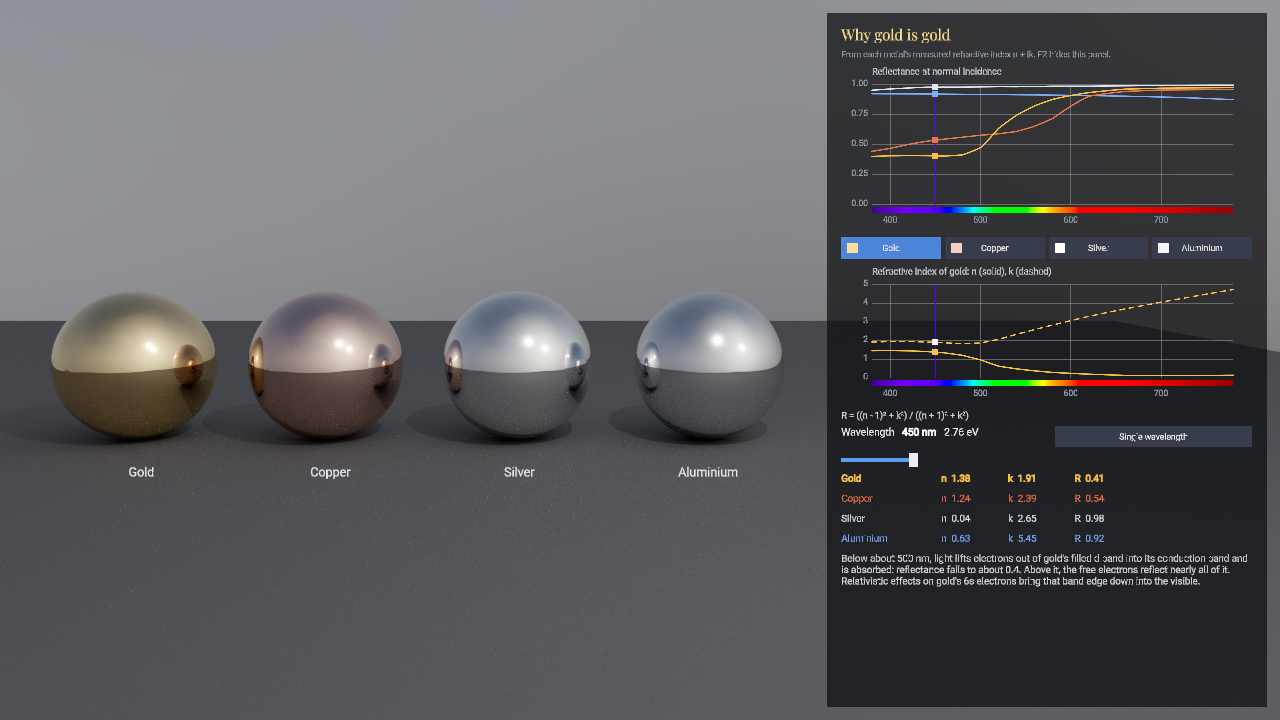
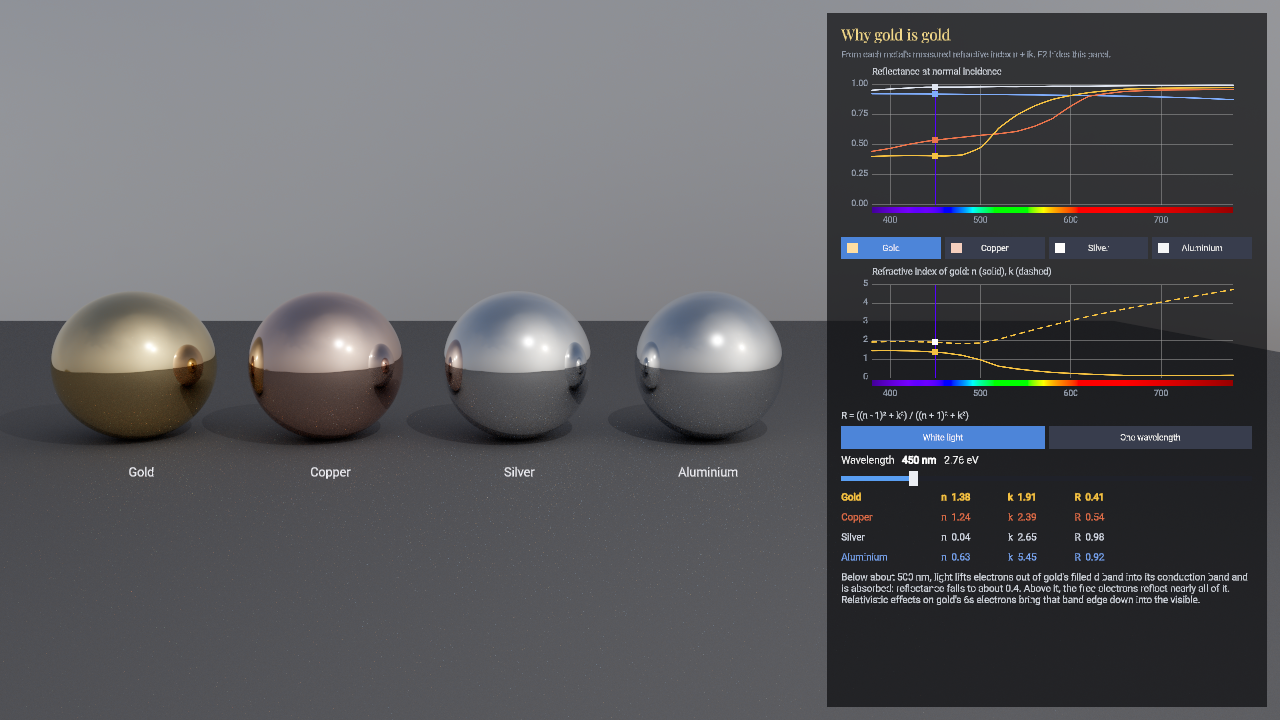
Gold episode: the wavelength cursor lights the scene
Moving the wavelength cursor, by the slider or the arrow keys, now lights
the scene with that wavelength alone, so each sphere is as bright as its
reflectance there. White light and One wavelength buttons switch between
the full spectrum and that light, which is shown at half the exposure.
The wave optics pipeline shows a single wavelength in its hue
(wavelengthHue in spectral.glsl) scaled by the spectral radiance.

Changed region(s): [[0.6562, 0.5806, 0.9688, 0.8556], [0.875, 0.5806, 0.9375, 0.6417]]

diff --git a/examples/python/rendering/optics/gold.py b/examples/python/rendering/optics/gold.py
@@ -6,13 +6,14 @@ the wave optics example's spectral pipeline from each metal's measured
 complex refractive index n + ik. A panel plots each metal's reflectance at
 normal incidence, and the n and k of one of them, from the same tables the
 renderer reads, with a wavelength cursor that reads off n, k and the
-reflectance of each metal there. The single wavelength view renders the
-light at the cursor's wavelength alone, in grey.
+reflectance of each metal there. The scene is lit by white light, or by
+light of the cursor's wavelength alone, shown in its colour; moving the
+cursor switches to the latter.
 
 Keys:
     WASD/Q/E + right mouse   fly the camera; moving starts the average over
-    Left / Right             move the wavelength cursor by 5 nm
-    V                        the full spectrum / the cursor's wavelength alone
+    Left / Right             move the wavelength cursor by 5 nm, in light of that wavelength
+    V                        white light / light of the cursor's wavelength
     M                        plot n and k of the next metal
     R                        start the average over
     F2                       hide or show the panel
@@ -21,7 +22,7 @@ Keys:
 Usage:
     python gold.py
     python gold.py --metal copper --wavelength 560
-    python gold.py --single --wavelength 450           # the light at 450 nm alone
+    python gold.py --single --wavelength 450           # light of 450 nm alone
     python gold.py --samples 512 --screenshot out.png   # converge, save, quit
 
 Requirements:
@@ -68,6 +69,7 @@ EYE = (0.82, 0.78, 3.7)
 TARGET = (0.82, 0.30, 0.0)
 FOV = 40.0
 LAMP = (1.6, 2.6, 2.4)
+SINGLE_EXPOSURE = 0.5
 
 parser = argparse.ArgumentParser(description="Why gold is gold", formatter_class=argparse.RawDescriptionHelpFormatter,
                                  epilog=__doc__)
@@ -75,7 +77,7 @@ parser.add_argument("--metal", choices=[m.lower() for m in METALS], default="gol
                     help="the metal whose n and k the panel plots")
 parser.add_argument("--wavelength", type=float, default=450.0, help="the cursor's wavelength in nm (380 to 780)")
 parser.add_argument("--single", action="store_true",
-                    help="render the light at the cursor's wavelength alone, in grey")
+                    help="start in light of the cursor's wavelength alone, shown in its colour")
 parser.add_argument("--roughness", type=float, default=0.04, help="GGX roughness of the spheres")
 parser.add_argument("--sky", type=float, default=0.4, help="intensity of the sky's light")
 parser.add_argument("--exposure", type=float, default=1.0, help="multiplies the image before the tone curve")
@@ -237,14 +239,9 @@ class Panel:
             self.nk_dots[metal] = (self.nk[metal].dot(CURVE[metal] + (1.0,)), self.nk[metal].dot((1, 1, 1, 1)))
         ui.create_text(column, "R = ((n - 1)² + k²) / ((n + 1)² + k²)", size=16, color=oc.TEXT)
 
-        row = ui.create_horizontal_layout(column, size=(0, 32), spacing=10)
-        ui.set_layout_child_sizing(row, expand_width=True)
-        self.wavelength_label = ui.create_text(row, "", size=18)
+        self.white_button, self.single_button = oc.button_row(ui, column, ["White light", "One wavelength"])
+        self.wavelength_label = ui.create_text(column, "", size=18)
         ui.set_rich_text(self.wavelength_label)
-        ui.set_text_align(self.wavelength_label, sk.TEXT_ALIGN_LEFT, sk.TEXT_ALIGN_MIDDLE)
-        self.single_button = ui.create_button(row, "Single wavelength", size=(190, 32))
-        ui.set_font_size(self.single_button, 15)
-        ui.set_layout_element(self.single_button, min=(190, 32), preferred=(190, 32), flexible=(0, 0))
         self.slider = ui.create_slider(column, min=LAMBDA_MIN, max=LAMBDA_MAX, value=self.wavelength, size=(0, 22))
         ui.set_accessible(self.slider, "Wavelength")
         self.readout = {}
@@ -273,13 +270,17 @@ class Panel:
         ui = engine.ui
         if ui.value_changed(self.slider):
             self.wavelength = ui.slider_value(self.slider)
+            self.single = True
         for metal, button in self.buttons.items():
             if ui.was_clicked(button):
                 self.metal = metal
+        if ui.was_clicked(self.white_button):
+            self.single = False
         if ui.was_clicked(self.single_button):
-            self.toggle_single()
+            self.single = True
         w = self.wavelength
         ui.set_slider_value(self.slider, w)
+        ui.set_color(self.white_button, oc.SURFACE if self.single else oc.ACCENT)
         ui.set_color(self.single_button, oc.ACCENT if self.single else oc.SURFACE)
 
         hue = oc.wavelength_colour(w) + (1.0,)
@@ -295,7 +296,8 @@ class Panel:
         for metal, button in self.buttons.items():
             ui.set_color(button, oc.ACCENT if metal == self.metal else oc.SURFACE)
 
-        self.texts.set(self.wavelength_label, "Wavelength   <b>%.0f nm</b>   %.2f eV" % (w, 1239.84 / w))
+        self.texts.set(self.wavelength_label, "Wavelength   <b>%.0f nm</b>   %.2f eV%s"
+                       % (w, 1239.84 / w, "   the scene in this light alone" if self.single else ""))
         for metal, cells in self.readout.items():
             n, k = ior(metal, w)
             texts = (NAMES[metal], "n  %.2f" % n, "k  %.2f" % k, "R  %.2f" % reflectance(n, k))
@@ -314,6 +316,7 @@ class Panel:
 
     def step(self, nanometres):
         self.wavelength = min(max(self.wavelength + nanometres, LAMBDA_MIN), LAMBDA_MAX)
+        self.single = True
 
     def next_metal(self):
         self.metal = ORDER[(ORDER.index(self.metal) + 1) % len(ORDER)]
@@ -359,6 +362,9 @@ class Controls:
             self.start_state = state
         self.panel.update(state != self.start_state)
         engine.set_custom_float("wo.wavelength", self.panel.wavelength if self.panel.single else 0.0)
+        # In light of one wavelength the exposure halves, which keeps the
+        # sky's reflections below the tone curve's shoulder.
+        engine.set_custom_float("wo.exposure", args.exposure * (SINGLE_EXPOSURE if self.panel.single else 1.0))
         self.accumulation.update(state + self.panel.key(), restart=self.pressed(keys.R))
 
 

diff --git a/examples/python/rendering/optics/README.md b/examples/python/rendering/optics/README.md
@@ -27,12 +27,12 @@ All episodes share these keys and options:
 
 ## Why gold is gold
 
-Four polished spheres of gold, copper, silver and aluminium, path traced from each metal's measured complex refractive index n + ik. A panel plots each metal's reflectance at normal incidence and the n and k of one of them, from the same tables the renderer reads, with a wavelength cursor that reads off n, k and the reflectance of every metal there. The single wavelength view renders the light at the cursor's wavelength alone.
+Four polished spheres of gold, copper, silver and aluminium, path traced from each metal's measured complex refractive index n + ik. A panel plots each metal's reflectance at normal incidence and the n and k of one of them, from the same tables the renderer reads, with a wavelength cursor that reads off n, k and the reflectance of every metal there. The scene is lit by white light, or by light of the cursor's wavelength alone; moving the cursor switches to the latter, so the spheres follow it.
 
 ```
 python gold.py
 python gold.py --metal copper --wavelength 560                  # copper's n and k, the cursor at 560 nm
-python gold.py --single --wavelength 450                        # the light at 450 nm alone
+python gold.py --single --wavelength 450                        # light of 450 nm alone
 python gold.py --samples 512 --screenshot out.png               # converge, save, quit
 ```
 
@@ -47,7 +47,7 @@ The panel reads `metals.glsl` and interpolates it linearly, as the shader does. 
 
 Below them, the cursor's wavelength and photon energy (1239.84 / λ eV), n, k and R of each metal there, and a note on the selected metal. The swatch on each metal's button is the sRGB colour of its normal reflectance under the flat spectrum, through the CIE 1931 fit the renderer uses.
 
-**Single wavelength.** With the **Single wavelength** button (or **V**, or `--single`), every path carries the cursor's wavelength alone (the pipeline's `wo.wavelength`), and the image shows the spectral radiance there in grey: 1 where a white surface would be under light of 1 at every wavelength. Moving the cursor starts the average over.
+**Light of one wavelength.** Moving the cursor, the **One wavelength** button, **V** or `--single` light the scene with the cursor's wavelength alone: every path carries that wavelength (the pipeline's `wo.wavelength`), and the image shows the spectral radiance there in the wavelength's colour, at half the exposure. Each sphere is then as bright as its reflectance at that wavelength: at 450 nm gold and copper reflect the sky dimly and silver and aluminium brightly; at 650 nm all four alike. **White light** returns to the full spectrum.
 
 The names under the spheres are placed for the starting camera and hide once it moves.
 
@@ -55,17 +55,17 @@ The names under the spheres are placed for the starting camera and hide once it 
 
 | Key | |
 |---|---|
-| **Left** / **Right** | Move the wavelength cursor by 5 nm |
-| **V** | The full spectrum / the cursor's wavelength alone |
+| **Left** / **Right** | Move the wavelength cursor by 5 nm, in light of that wavelength |
+| **V** | White light / light of the cursor's wavelength |
 | **M** | Plot n and k of the next metal |
 
-The slider moves the cursor; the buttons pick the metal whose n and k are plotted.
+The slider moves the cursor, in light of its wavelength; **White light** and **One wavelength** switch the light; the metal buttons pick the metal whose n and k are plotted.
 
 | Option | Default | |
 |---|---|---|
 | `--metal NAME` | `gold` | The metal whose n and k are plotted: `gold`, `silver`, `copper`, `aluminium` |
 | `--wavelength NM` | 450 | The cursor's wavelength, 380 to 780 nm |
-| `--single` | off | Start in the single wavelength view |
+| `--single` | off | Start in light of the cursor's wavelength |
 | `--roughness X` | 0.04 | GGX roughness of the spheres |
 | `--sky X` | 0.4 | Intensity of the sky's light |
 

diff --git a/examples/python/rendering/wave_optics/README.md b/examples/python/rendering/wave_optics/README.md
@@ -105,7 +105,7 @@ The panel sets the lamp's radius and distance, the film's thickness, the grooves
 | `WaveTrace` | `wave.comp` (with `spectral.glsl`, `optics.glsl`, `metals.glsl`, `lamps.glsl`) | One path per pixel, averaged into `accumulation` (rgb the mean, a the count) |
 | `Display` | `display.frag` | Exposure and tone curve (AgX by default) |
 
-Settings are `scene.custom.wo.*` values in the `Settings` uniform block; `lampSpectrum` is the spectrum's index in the table above (0 `white` to 4 `led`), and `lampEntity` the entity whose emission has it. `wavelength` above 0 makes every path carry that wavelength alone, in nm, and shows the spectral radiance there in grey, 1 for the spectrum that is 1 at every wavelength; the [gold](../optics/README.md#why-gold-is-gold) episode uses it. The `Materials` block holds eight material slots of three vec4s each, `scene.custom.wo.slot[0]` to `slot[23]`:
+Settings are `scene.custom.wo.*` values in the `Settings` uniform block; `lampSpectrum` is the spectrum's index in the table above (0 `white` to 4 `led`), and `lampEntity` the entity whose emission has it. `wavelength` above 0 makes every path carry that wavelength alone, in nm, and shows it in the wavelength's hue (`wavelengthHue` in `spectral.glsl`) scaled by the spectral radiance there, 1 for the spectrum that is 1 at every wavelength; the [gold](../optics/README.md#why-gold-is-gold) episode uses it. The `Materials` block holds eight material slots of three vec4s each, `scene.custom.wo.slot[0]` to `slot[23]`:
 
 | vec4 | x | y | z | w |
 |---|---|---|---|---|

diff --git a/docs/examples/python-examples.md b/docs/examples/python-examples.md
@@ -192,7 +192,7 @@ Polished spheres of gold, copper, silver and aluminium on the wave optics pipeli
 - **n and k** of the selected metal.
 - **A wavelength cursor** (slider, or **Left** / **Right**) that reads off n, k and the reflectance of every metal.
 
-**V** renders the light at the cursor's wavelength alone, in grey.
+Moving the cursor lights the scene with its wavelength alone, shown in that colour, so each sphere is as bright as its reflectance there; **White light** returns to the full spectrum.
 
 Needs a GPU with ray queries. See the [example's README](../../examples/python/rendering/optics/README.md#why-gold-is-gold).
 
